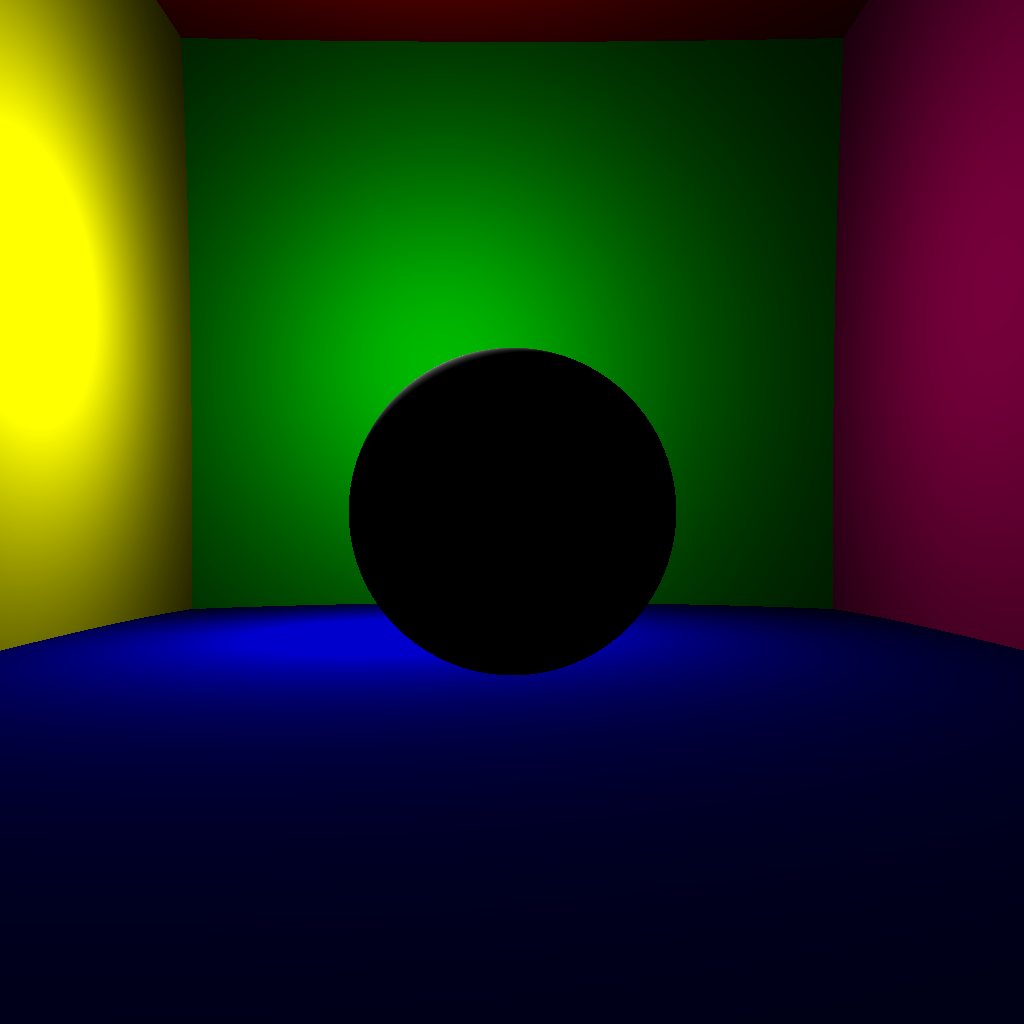
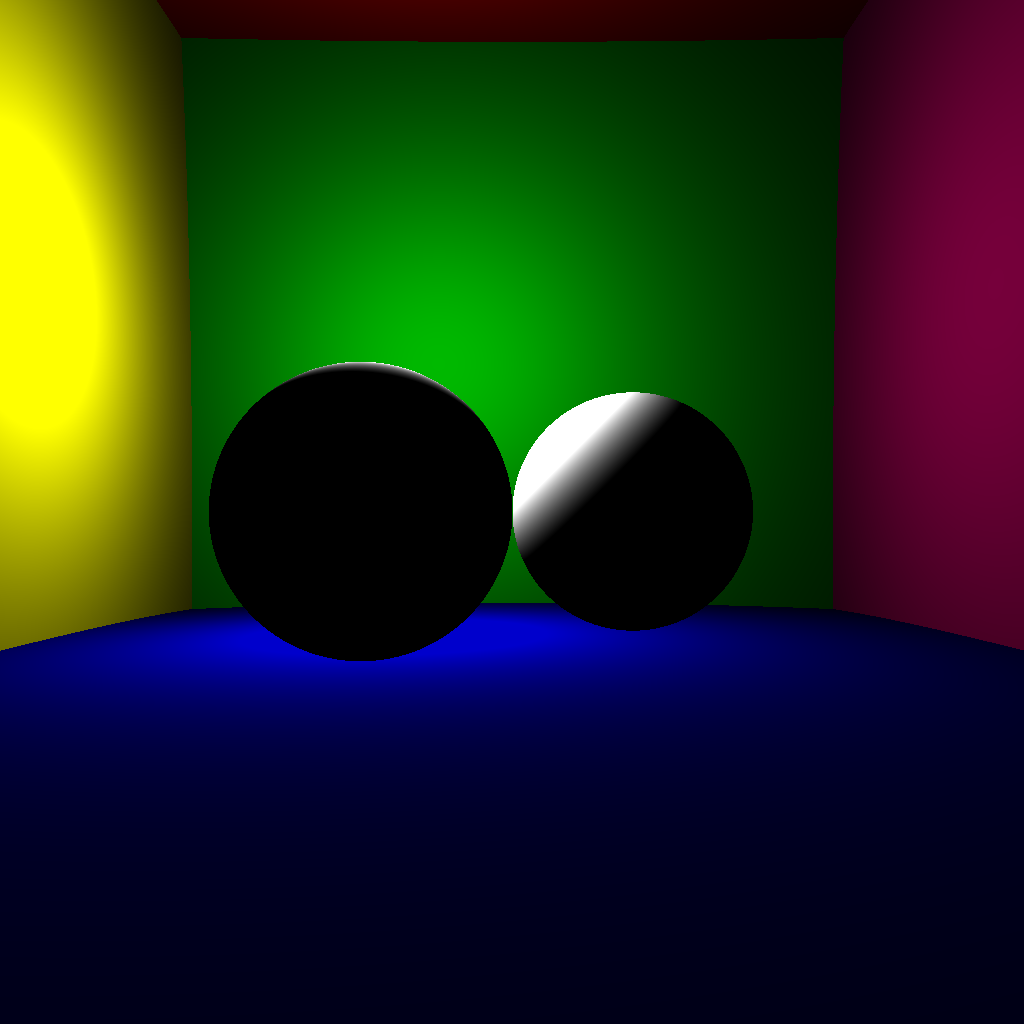
new images TD1

Changed region(s): [[0.1875, 0.3125, 0.75, 0.6562]]

diff --git a/TD1/TD1.cpp b/TD1/TD1.cpp
@@ -22,7 +22,8 @@ int main()
   int H = 1024;
 
   //spheres
-  Sphere sphere(Vector(0, 0, 0), 10, Vector(1, 1, 1));
+  Sphere sphere(Vector(10, 0, -20), 10, Vector(1, 1, 1));
+  Sphere sphere2(Vector(-10, 0, -5), 10, Vector(1, 1, 1));
   Sphere ceiling(Vector(0, 1000, 0), 940, Vector(0.8, 0, 0));
   Sphere background(Vector(0, 0, -1000), 940, Vector(0, 1, 0));
   Sphere floor(Vector(0, -1000, 0), 990, Vector(0, 0, 0.8));
@@ -32,6 +33,7 @@ int main()
   //scene
   Scene scene;
   scene.addSphere(sphere);
+  scene.addSphere(sphere2);
   scene.addSphere(ceiling);
   scene.addSphere(background);
   scene.addSphere(floor);
